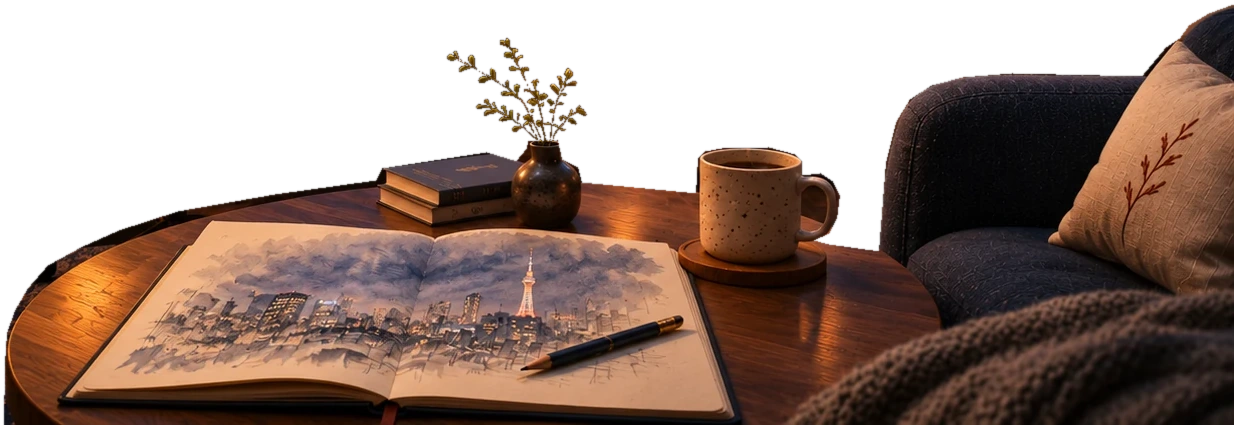
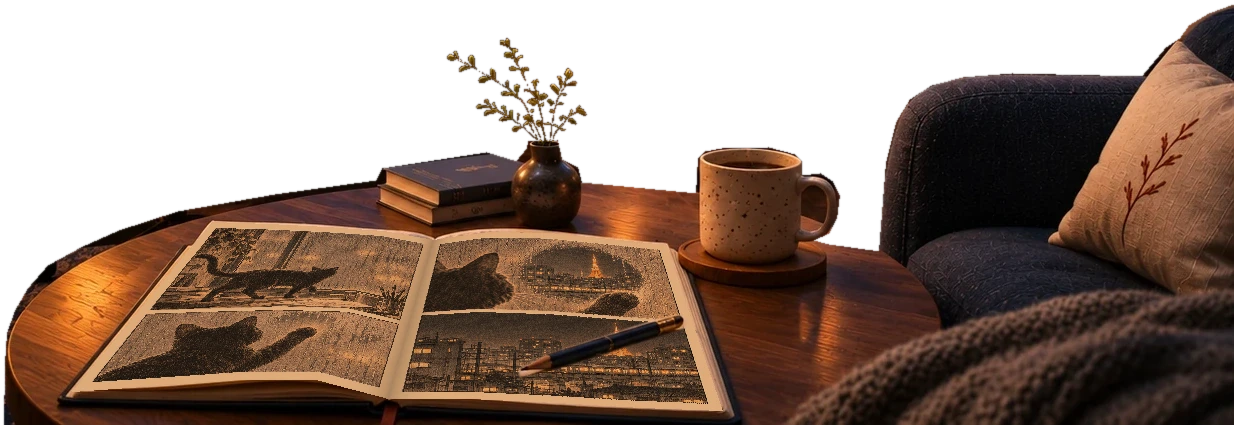
Fix the studio viewpoint and add a turnable desk manga

Changed region(s): [[0.0616, 0.52, 0.5851, 0.9788]]

diff --git a/src/scripts/studio-presence.js b/src/scripts/studio-presence.js
@@ -10,63 +10,12 @@ const back = view.querySelector('.return');
 const ctx = glass.getContext('2d');
 const stage = document.querySelector('main');
 const motion = matchMedia('(prefers-reduced-motion: reduce)');
-let yaw = 0;
-let focal = 1200;
-let minYaw = 0;
-let maxYaw = 0;
-let drag;
 let leaving = false;
 let fade;
 Promise.all([...room.querySelectorAll('.layer-photo,.chair,.foreground')].map(img => img.decode()))
   .then(() => room.classList.add('layered'))
   .catch(() => { hint.textContent = '点窗户走近 · 点桌灯开关'; });
 
-// Rotate the whole view around the observer. Limit the turn to rays covered
-// by the room photograph, including the extra crop on portrait screens.
-function fitCamera() {
-  const rect = room.getBoundingClientRect();
-  const half = stage.clientWidth / 2;
-  const eye = half - rect.left;
-  focal = Math.max(stage.clientWidth, stage.clientHeight) * .95;
-  const edgeAngle = Math.atan(half / focal);
-  const margin = rect.width * .08;
-  const cap = Math.PI / 18;
-  minYaw = -Math.min(cap, Math.max(0, Math.atan((eye + margin) / focal) - edgeAngle));
-  maxYaw = Math.min(cap, Math.max(0, Math.atan((rect.width - eye + margin) / focal) - edgeAngle));
-  room.style.setProperty('--eye-x', eye + 'px');
-  room.style.setProperty('--focal', focal + 'px');
-  setYaw(yaw);
-}
-function setYaw(angle) {
-  yaw = Math.max(minYaw, Math.min(maxYaw, angle));
-  room.style.setProperty('--yaw', yaw + 'rad');
-}
-new ResizeObserver(fitCamera).observe(stage);
-fitCamera();
-stage.addEventListener('pointerdown', e => {
-  if (room.classList.contains('walking') || room.inert || menu.open || motion.matches || !room.classList.contains('layered')
-      || !e.isPrimary || e.button || e.target.closest('button,a')) return;
-  drag = {id:e.pointerId, x:e.clientX};
-  stage.setPointerCapture(e.pointerId);
-});
-stage.addEventListener('pointermove', e => {
-  if (drag?.id !== e.pointerId) return;
-  const delta = e.clientX - drag.x;
-  drag.x = e.clientX;
-  if (!delta) return;
-  setYaw(yaw - delta * .65 / focal);
-  hint.hidden = true;
-});
-stage.addEventListener('lostpointercapture', () => { drag = undefined; });
-stage.addEventListener('keydown', e => {
-  if (room.classList.contains('walking') || room.inert || menu.open || motion.matches || !room.classList.contains('layered')) return;
-  if (e.key === 'Home') setYaw(0);
-  else if (e.key === 'ArrowLeft') setYaw(yaw - .018);
-  else if (e.key === 'ArrowRight') setYaw(yaw + .018);
-  else return;
-  hint.hidden = true;
-  e.preventDefault();
-});
 let origin;
 let previous;
 let pointer;
@@ -114,15 +63,8 @@ function coatGlass() {
 const detail = document.querySelector('.detail');
 const catalogue = detail.querySelector('.catalogue');
 const desk = detail.querySelector('.paper-desk');
-const openPaper = detail.querySelector('.open-paper');
-openPaper.addEventListener('click', () => {
-  desk.hidden = false;
-  openPaper.hidden = true;
-  desk.querySelector('canvas').setAttribute('tabindex','-1');
-  desk.querySelector('canvas').focus({preventScroll:true});
-});
 const locationName = document.querySelector('.location span');
-const labels = {window:'窗边', shelf:'书架', sketch:'速写本'};
+const labels = {window:'窗边', shelf:'书架', sketch:'桌边漫画'};
 const spots = new Map([...room.querySelectorAll('[data-place]')].map(button => [button.dataset.place, button]));
 let route;
 let progress = 0;
@@ -131,13 +73,11 @@ const initialHint = matchMedia('(pointer:coarse)').matches ? '轻点房间里的
 
 const passage = stage.querySelector('.passage');
 let renderWalk;
-let lookAngle = 0;
-let lookPitch = 0;
 let pendingFrame = 0;
 function paintPassage() {
   const active = route === 'window' && progress > 0 && renderWalk && !motion.matches;
   passage.hidden = !active;
-  if (active) renderWalk(yaw + lookAngle, lookPitch, -2, progress, room.classList.contains('dark'));
+  if (active) renderWalk(0, 0, -2, progress, room.classList.contains('dark'));
 }
 async function preparePassage() {
   try { renderWalk = await createRenderer(passage,true) || await createCanvasWalk(passage); paintPassage(); }
@@ -151,35 +91,9 @@ window.addEventListener('resize',paintPassage);
 motion.addEventListener('change',paintPassage);
 preparePassage();
 
-function turnInPassage(delta) {
-  lookAngle = Math.max(-.32, Math.min(.32, lookAngle + delta));
-  paintPassage();
-}
-let walkDrag;
-passage.addEventListener('pointerdown', e => {
-  if (!e.isPrimary || e.button) return;
-  cancelAnimationFrame(pendingFrame);
-  walkDrag = {id:e.pointerId,x:e.clientX,y:e.clientY};
-  passage.setPointerCapture(e.pointerId);
-});
-passage.addEventListener('pointermove', e => {
-  if (walkDrag?.id !== e.pointerId) return;
-  lookPitch = Math.max(-.16, Math.min(.35,lookPitch + (walkDrag.y-e.clientY)/focal));
-  walkDrag.y=e.clientY;
-  turnInPassage((walkDrag.x-e.clientX)/focal);
-  walkDrag.x=e.clientX;
-});
-passage.addEventListener('lostpointercapture',()=>{walkDrag=undefined;});
-stage.addEventListener('keydown', e => {
-  if(passage.hidden || destination || menu.open)return;
-  if(e.key==='ArrowLeft')turnInPassage(-.035);
-  else if(e.key==='ArrowRight')turnInPassage(.035);
-  else return;
-  e.preventDefault();
-});
 function aimAt(place) {
   route = place;
-  // Use the hotspot's projected position, including the current yaw and mobile crop.
+  // Use the hotspot's projected position, including the mobile crop.
   const box = spots.get(place).getBoundingClientRect();
   const dx = stage.clientWidth / 2 - box.left - box.width / 2;
   const dy = stage.clientHeight / 2 - box.top - box.height / 2;
@@ -194,10 +108,10 @@ function walk(value) {
   room.classList.toggle('walking', progress > 0);
   hint.hidden = false;
   hint.textContent = progress ? labels[route] + ' · 向上走近 / 向下退回' : initialHint;
-  if (!progress) { route = undefined; lookAngle = 0; lookPitch = 0; }
+  if (!progress) route = undefined;
   paintPassage();
   if (!destination) locationName.textContent = passage.hidden ? '沙发' : progress < .52 ? '茶几旁' : '窗前';
-  if (!passage.hidden && !destination) hint.textContent = '滚轮前进或后退 · 拖动环顾';
+  if (!passage.hidden && !destination) hint.textContent = '滚轮前进或后退';
 }
 
 function arrive(place, button) {
@@ -222,11 +136,10 @@ function arrive(place, button) {
   } else {
     detail.dataset.scene = place;
     detail.setAttribute('aria-label', labels[place]);
-    detail.querySelector('img').alt = place === 'shelf' ? '左侧书架与架上的藏书' : '茶几上摊开的东京夜景速写';
+    detail.querySelector('img').alt = place === 'shelf' ? '左侧书架与架上的藏书' : '茶几上摊开的漫画《末班车》';
     catalogue.hidden = place !== 'shelf';
-    desk.hidden = true;
-    openPaper.hidden = place !== 'sketch';
-    detail.querySelector('button').focus({preventScroll:true});
+    desk.hidden = place !== 'sketch';
+    (place === 'sketch' ? desk : detail.querySelector('button')).focus({preventScroll:true});
   }
   if (!motion.matches) fade = destination.animate([{opacity:0},{opacity:1}], {duration:fromWheel ? 320 : 550});
 }

diff --git a/src/scripts/studio-comic.js b/src/scripts/studio-comic.js
@@ -1,0 +1,78 @@
+const desk = document.querySelector('.paper-desk');
+const book = desk.querySelector('.book');
+const left = book.querySelector('.left');
+const right = book.querySelector('.right');
+const leaf = book.querySelector('.leaf');
+const [front, back] = leaf.children;
+const prev = desk.querySelector('[data-prev]');
+const next = desk.querySelector('[data-next]');
+const status = desk.querySelector('.paper-status');
+const scenes = ['画桌旁，黑猫抬头望向窗户。','猫走到窗边，把爪子贴在玻璃上。','雾气散开，远处的列车穿过夜色。','画者把猫和窗外的塔画进了手稿。'];
+let spread = 0;
+let turning = false;
+function page(index) {
+  if (index > 0 && index <= scenes.length) {
+    const image = new Image();
+    image.src = '/studio/comic/' + index + '.webp';
+    image.alt = '第 ' + index + ' 页。' + scenes[index - 1];
+    image.draggable = false;
+    return image;
+  }
+  const title = document.createElement('div');
+  const name = document.createElement('strong');
+  name.textContent = index === 0 ? '末班车' : '完';
+  const credit = document.createElement('small');
+  credit.textContent = 'XLEIA STUDIO';
+  title.append(name, credit);
+  return title;
+}
+function paint() {
+  left.replaceChildren(page(spread * 2));
+  right.replaceChildren(page(spread * 2 + 1));
+  prev.disabled = spread === 0;
+  next.disabled = spread === 2;
+  status.textContent = ['扉页 · 1','2 · 3','4 · 终页'][spread];
+}
+async function turn(direction) {
+  const target = spread + direction;
+  if (turning || target < 0 || target > 2) return;
+  turning = true;
+  const forward = direction > 0;
+  const before = spread * 2, after = target * 2;
+  front.replaceChildren(page(forward ? before + 1 : after + 1));
+  back.replaceChildren(page(forward ? after : before));
+  (forward ? right : left).replaceChildren(page(forward ? after + 1 : after));
+  leaf.hidden = false;
+  if (!matchMedia('(prefers-reduced-motion:reduce)').matches) {
+    const angles = forward ? [0,-180] : [-180,0];
+    const animation = leaf.animate(angles.map(angle => ({transform:'rotateY(' + angle + 'deg)'})), {duration:610,easing:'ease-in-out',fill:'both'});
+    try { await animation.finished; } catch { /* Settle on the selected spread. */ }
+    animation.cancel();
+  }
+  spread = target;
+  paint();
+  leaf.hidden = true;
+  turning = false;
+}
+prev.addEventListener('click', () => turn(-1));
+next.addEventListener('click', () => turn(1));
+let start;
+book.addEventListener('pointerdown', event => {
+  if (event.button || !event.isPrimary) return;
+  start = event.clientX;
+  book.setPointerCapture(event.pointerId);
+});
+book.addEventListener('pointerup', event => {
+  if (start === undefined || !event.isPrimary) return;
+  const delta = event.clientX - start;
+  const rect = book.getBoundingClientRect();
+  start = undefined;
+  turn(Math.abs(delta) > 28 ? -Math.sign(delta) : event.clientX > rect.left + rect.width / 2 ? 1 : -1);
+});
+book.addEventListener('pointercancel', () => { start = undefined; });
+document.addEventListener('keydown', event => {
+  if (desk.hidden || desk.closest('.detail').hidden || !['ArrowLeft','ArrowRight'].includes(event.key)) return;
+  event.preventDefault();
+  turn(event.key === 'ArrowRight' ? 1 : -1);
+});
+paint();

diff --git a/src/scripts/studio-sketch-renderer.js b/src/scripts/studio-sketch-renderer.js
@@ -86,10 +86,9 @@ export async function createRenderer(canvas, walkMode = false){
 }
 
 export function walkCamera(progress, yaw, pitch, portrait) {
-  const bend = Math.sin(Math.PI * progress);
-  const x = 1.05 * progress * progress - .96 * bend * bend;
+  const x = 1.05 * progress;
   const z = 3.85 * progress;
   return {x, y:-.37 * Math.sin(Math.PI * progress / 2), z,
-    yaw:yaw + Math.atan2(1.45-x,6.35-z)*progress + (portrait ? .13 : 0),
+    yaw:yaw + (portrait ? .13 : 0),
     pitch:pitch + .20*Math.sin(Math.PI*Math.min(1,progress*2)) - .08*progress};
 }
